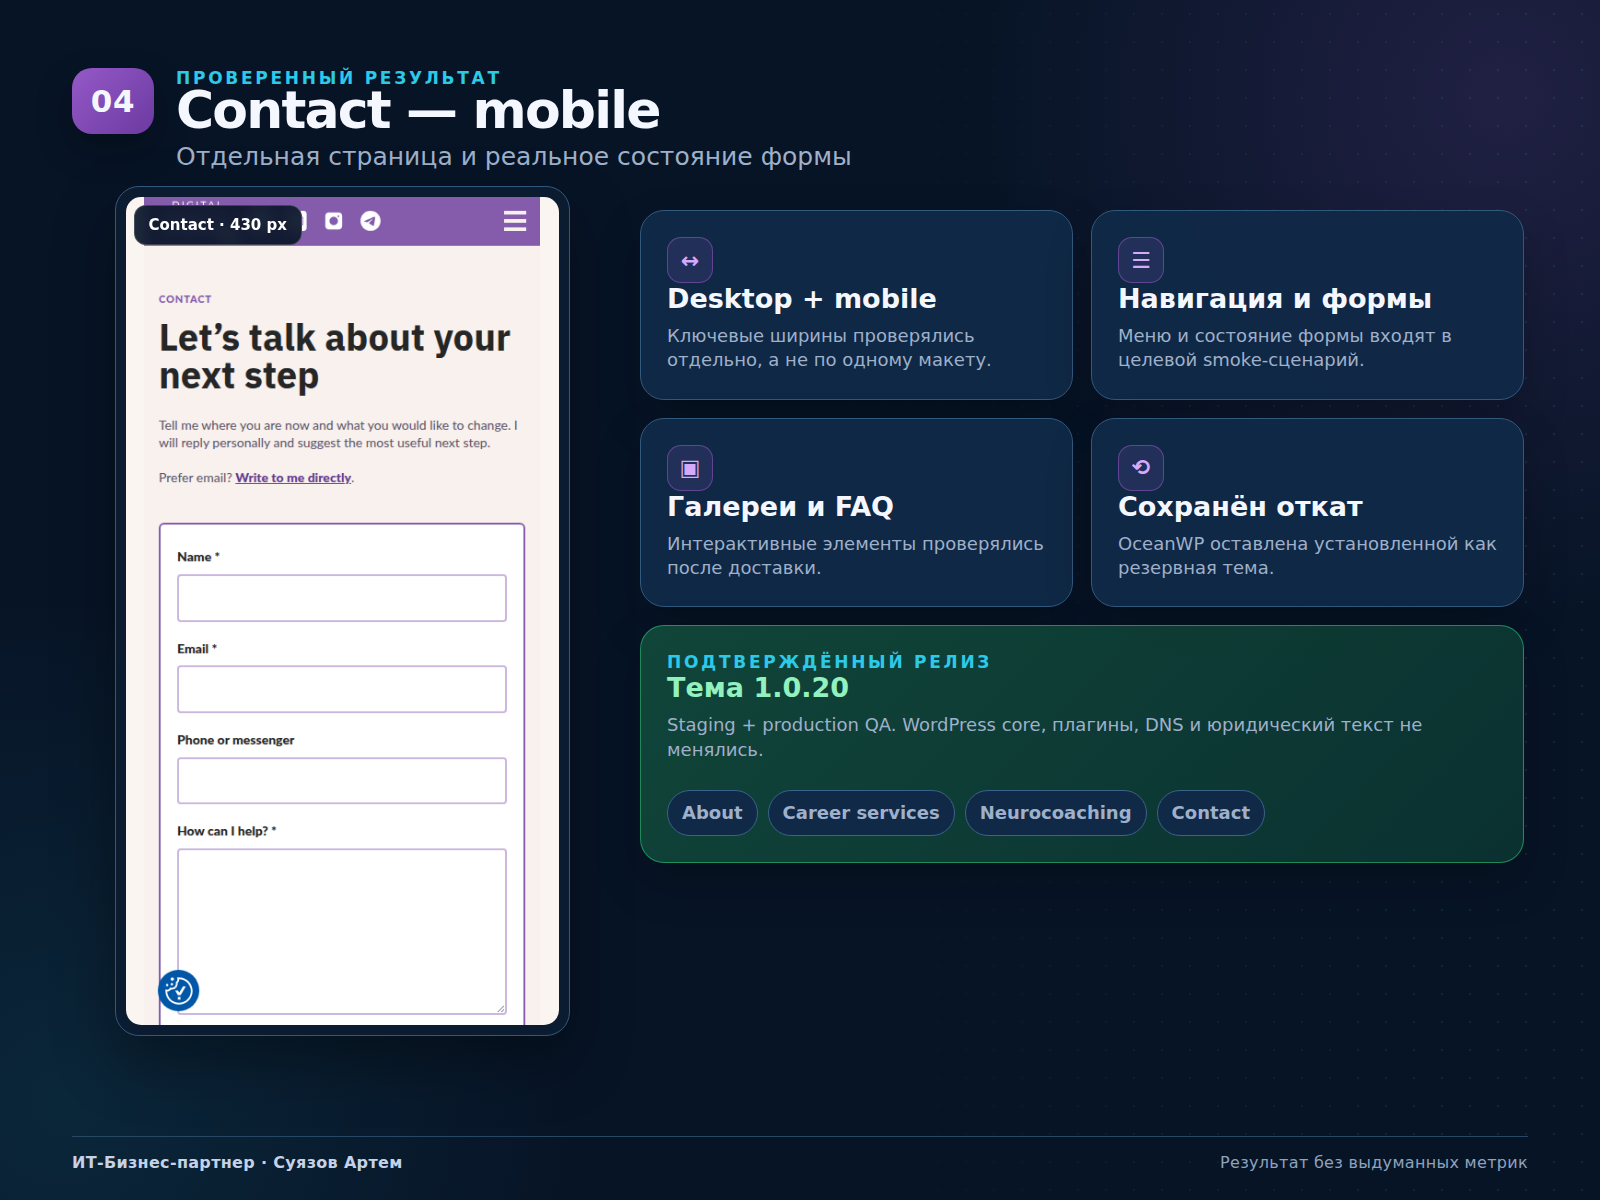
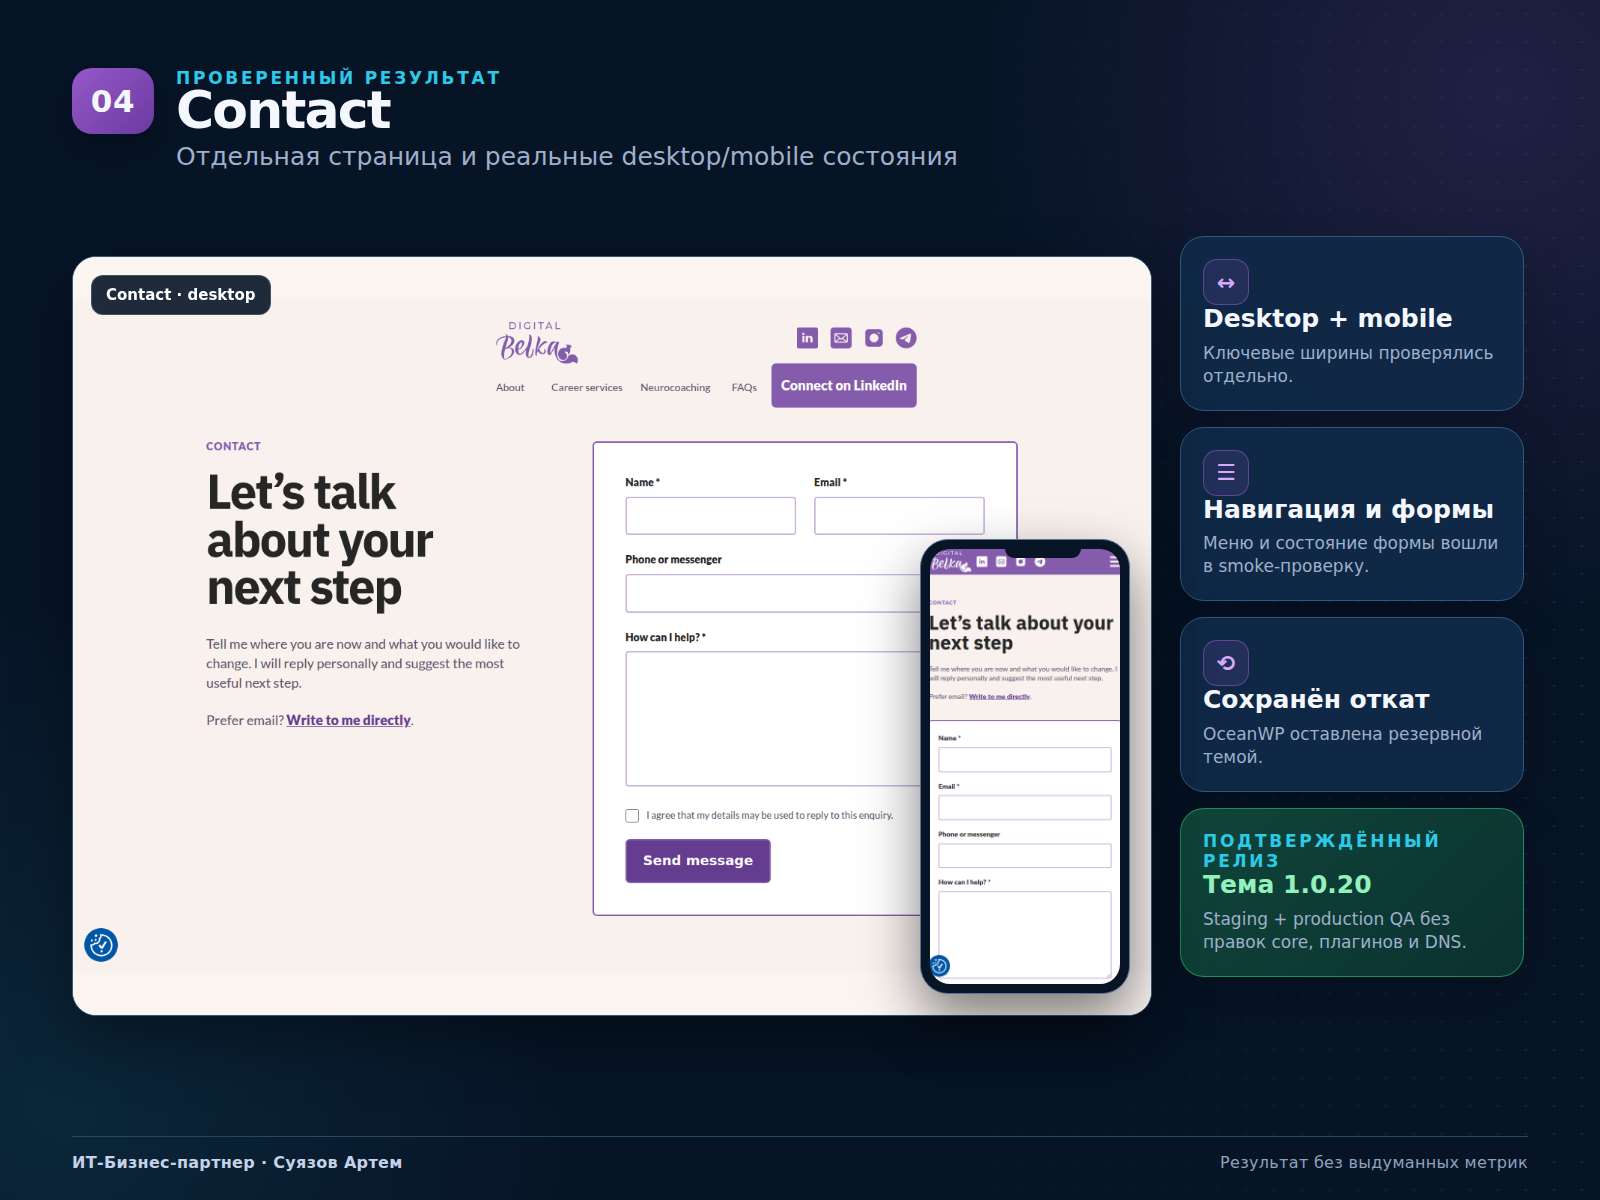
portfolio: make Contact screen the result focus (#198)

diff --git a/docs/portfolio-case/digital-belka-neurocoaching/visuals.html b/docs/portfolio-case/digital-belka-neurocoaching/visuals.html
@@ -112,14 +112,14 @@
     .callout span { display: block; margin-top: 8px; color: var(--muted); font-size: 17px; line-height: 1.35; }
     .proof { margin-top: 10px; padding: 22px; background: rgba(43,210,127,.08); border-color: rgba(43,210,127,.5); }
     .proof strong { color: #8ef0ba; font-size: 21px; }
-    .result-grid { position: relative; z-index: 2; display: grid; grid-template-columns: 540px 884px; gap: 28px; height: 900px; }
-    .result-mobile { height: 850px; width: 455px; justify-self: center; padding: 10px; background: #0b1c31; }
-    .result-mobile img { object-fit: contain; border-radius: 15px; }
-    .result-side { display: grid; grid-template-columns: 1fr 1fr; gap: 18px; align-content: start; padding-top: 24px; }
-    .result-side .panel { padding: 26px; min-height: 180px; }
-    .result-side .wide { grid-column: 1 / -1; min-height: 160px; }
-    .result-side .panel b { display: block; font-size: 27px; line-height: 1.15; }
-    .result-side .panel span { display: block; margin-top: 10px; color: var(--muted); font-size: 18px; line-height: 1.35; }
+    .result-grid { position: relative; z-index: 2; display: grid; grid-template-columns: 1080px 344px; gap: 28px; height: 900px; }
+    .result-main { position: relative; height: 760px; align-self: center; }
+    .result-main .screen { position: absolute; inset: 0; }
+    .result-main .phone { width: 210px; height: 455px; right: 22px; bottom: 22px; }
+    .result-side { display: flex; flex-direction: column; gap: 16px; padding-top: 50px; }
+    .result-side .panel { padding: 22px; }
+    .result-side .panel b { display: block; font-size: 25px; line-height: 1.15; }
+    .result-side .panel span { display: block; margin-top: 8px; color: var(--muted); font-size: 17px; line-height: 1.35; }
     .release { border-color: rgba(43,210,127,.55); background: linear-gradient(135deg, rgba(18,74,59,.92), rgba(11,52,49,.92)); }
     .release .big { font-size: 34px; color: #92f1bd; }
     .route-strip { display: flex; gap: 10px; flex-wrap: wrap; margin-top: 18px; }
@@ -168,15 +168,14 @@
   </section>
 
   <section class="slide" data-slide="result">
-    <div class="topline"><div class="num">04</div><div><div class="eyebrow">Проверенный результат</div><h1>Contact — mobile</h1><div class="subtitle">Отдельная страница и реальное состояние формы</div></div></div>
+    <div class="topline"><div class="num">04</div><div><div class="eyebrow">Проверенный результат</div><h1>Contact</h1><div class="subtitle">Отдельная страница и реальные desktop/mobile состояния</div></div></div>
     <div class="result-grid">
-      <div class="screen result-mobile"><img src="sources/contact-live-430x900.png" alt="Contact mobile"><div class="screen-label">Contact · 430 px</div></div>
+      <div class="result-main"><div class="screen"><img src="sources/contact-live-1440x900.png" alt="Contact desktop"><div class="screen-label">Contact · desktop</div></div><div class="phone"><img src="sources/contact-live-430x900.png" alt="Contact mobile"></div></div>
       <div class="result-side">
-        <div class="panel"><div class="icon">↔</div><b>Desktop + mobile</b><span>Ключевые ширины проверялись отдельно, а не по одному макету.</span></div>
-        <div class="panel"><div class="icon">☰</div><b>Навигация и формы</b><span>Меню и состояние формы входят в целевой smoke-сценарий.</span></div>
-        <div class="panel"><div class="icon">▣</div><b>Галереи и FAQ</b><span>Интерактивные элементы проверялись после доставки.</span></div>
-        <div class="panel"><div class="icon">⟲</div><b>Сохранён откат</b><span>OceanWP оставлена установленной как резервная тема.</span></div>
-        <div class="panel wide release"><div class="eyebrow">ПОДТВЕРЖДЁННЫЙ РЕЛИЗ</div><b class="big">Тема 1.0.20</b><span>Staging + production QA. WordPress core, плагины, DNS и юридический текст не менялись.</span><div class="route-strip"><span class="chip"><i></i>About</span><span class="chip"><i></i>Career services</span><span class="chip"><i></i>Neurocoaching</span><span class="chip"><i></i>Contact</span></div></div>
+        <div class="panel"><div class="icon">↔</div><b>Desktop + mobile</b><span>Ключевые ширины проверялись отдельно.</span></div>
+        <div class="panel"><div class="icon">☰</div><b>Навигация и формы</b><span>Меню и состояние формы вошли в smoke-проверку.</span></div>
+        <div class="panel"><div class="icon">⟲</div><b>Сохранён откат</b><span>OceanWP оставлена резервной темой.</span></div>
+        <div class="panel release"><div class="eyebrow">ПОДТВЕРЖДЁННЫЙ РЕЛИЗ</div><b class="big">Тема 1.0.20</b><span>Staging + production QA без правок core, плагинов и DNS.</span></div>
       </div>
     </div>
     <div class="footer"><span class="brand">ИТ-Бизнес-партнер · Суязов Артем</span><span>Результат без выдуманных метрик</span></div>
